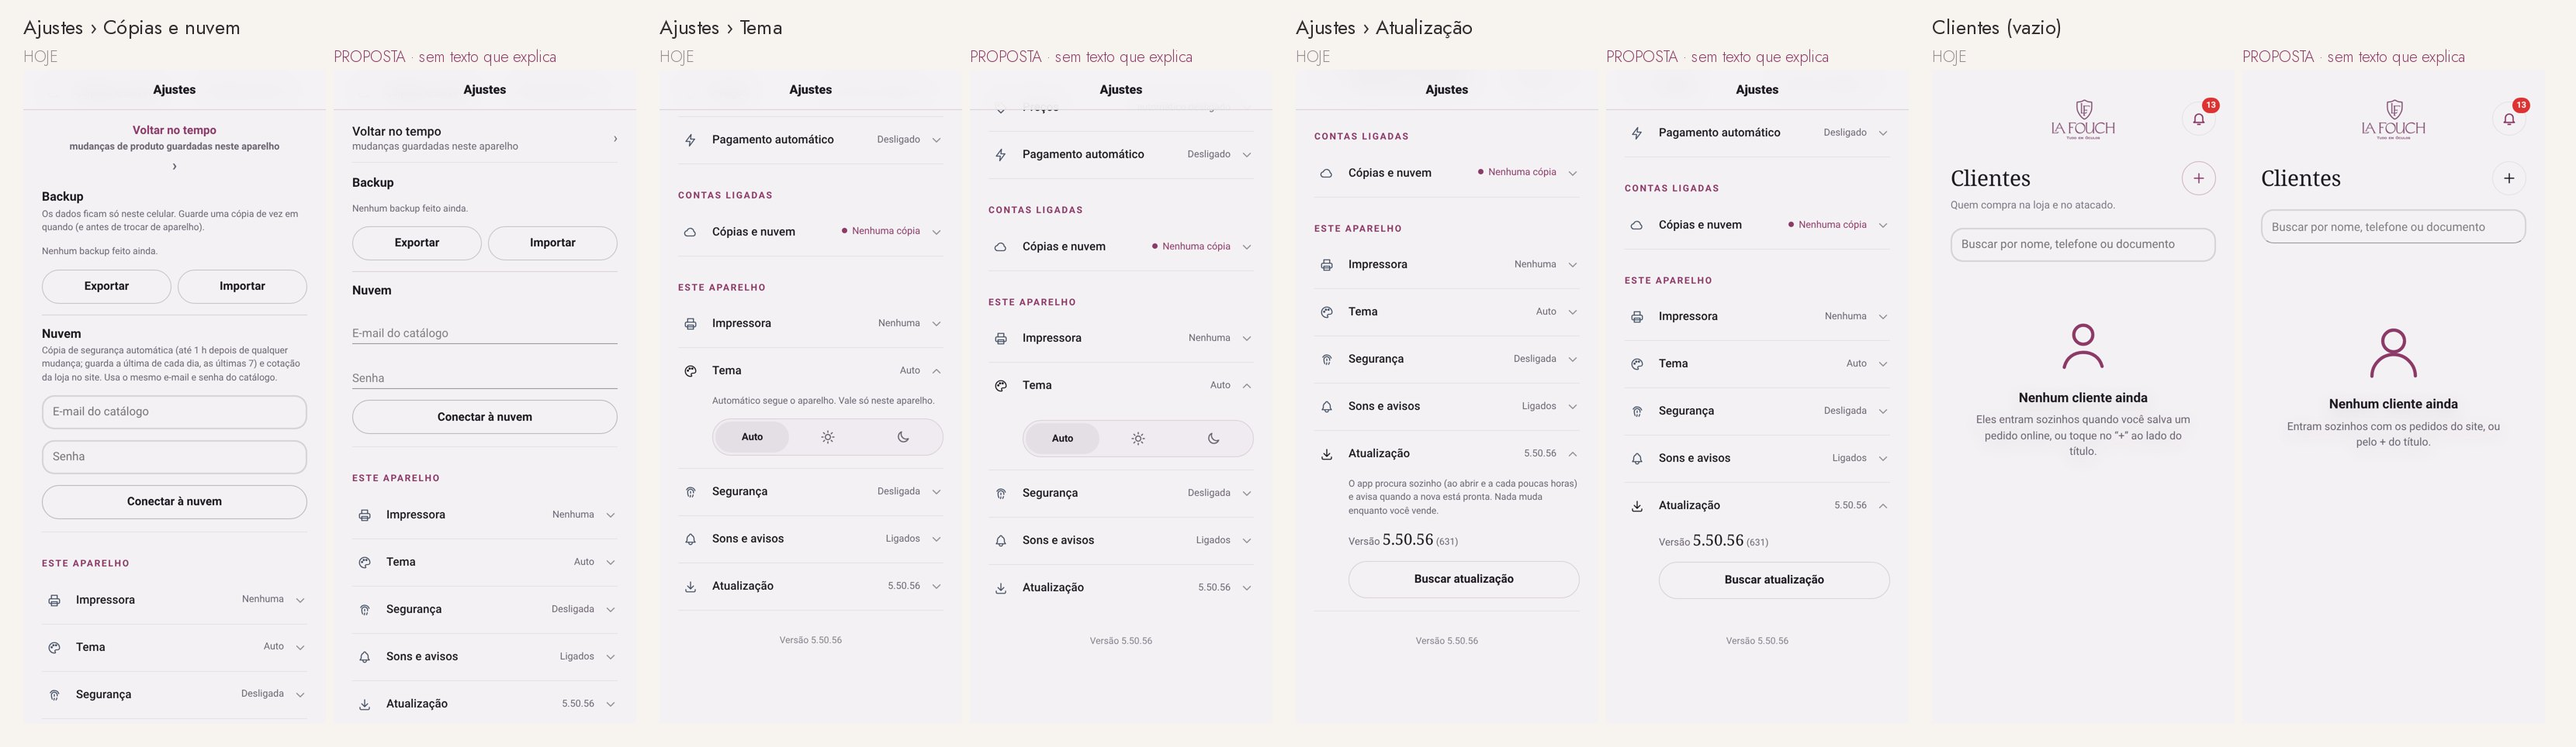
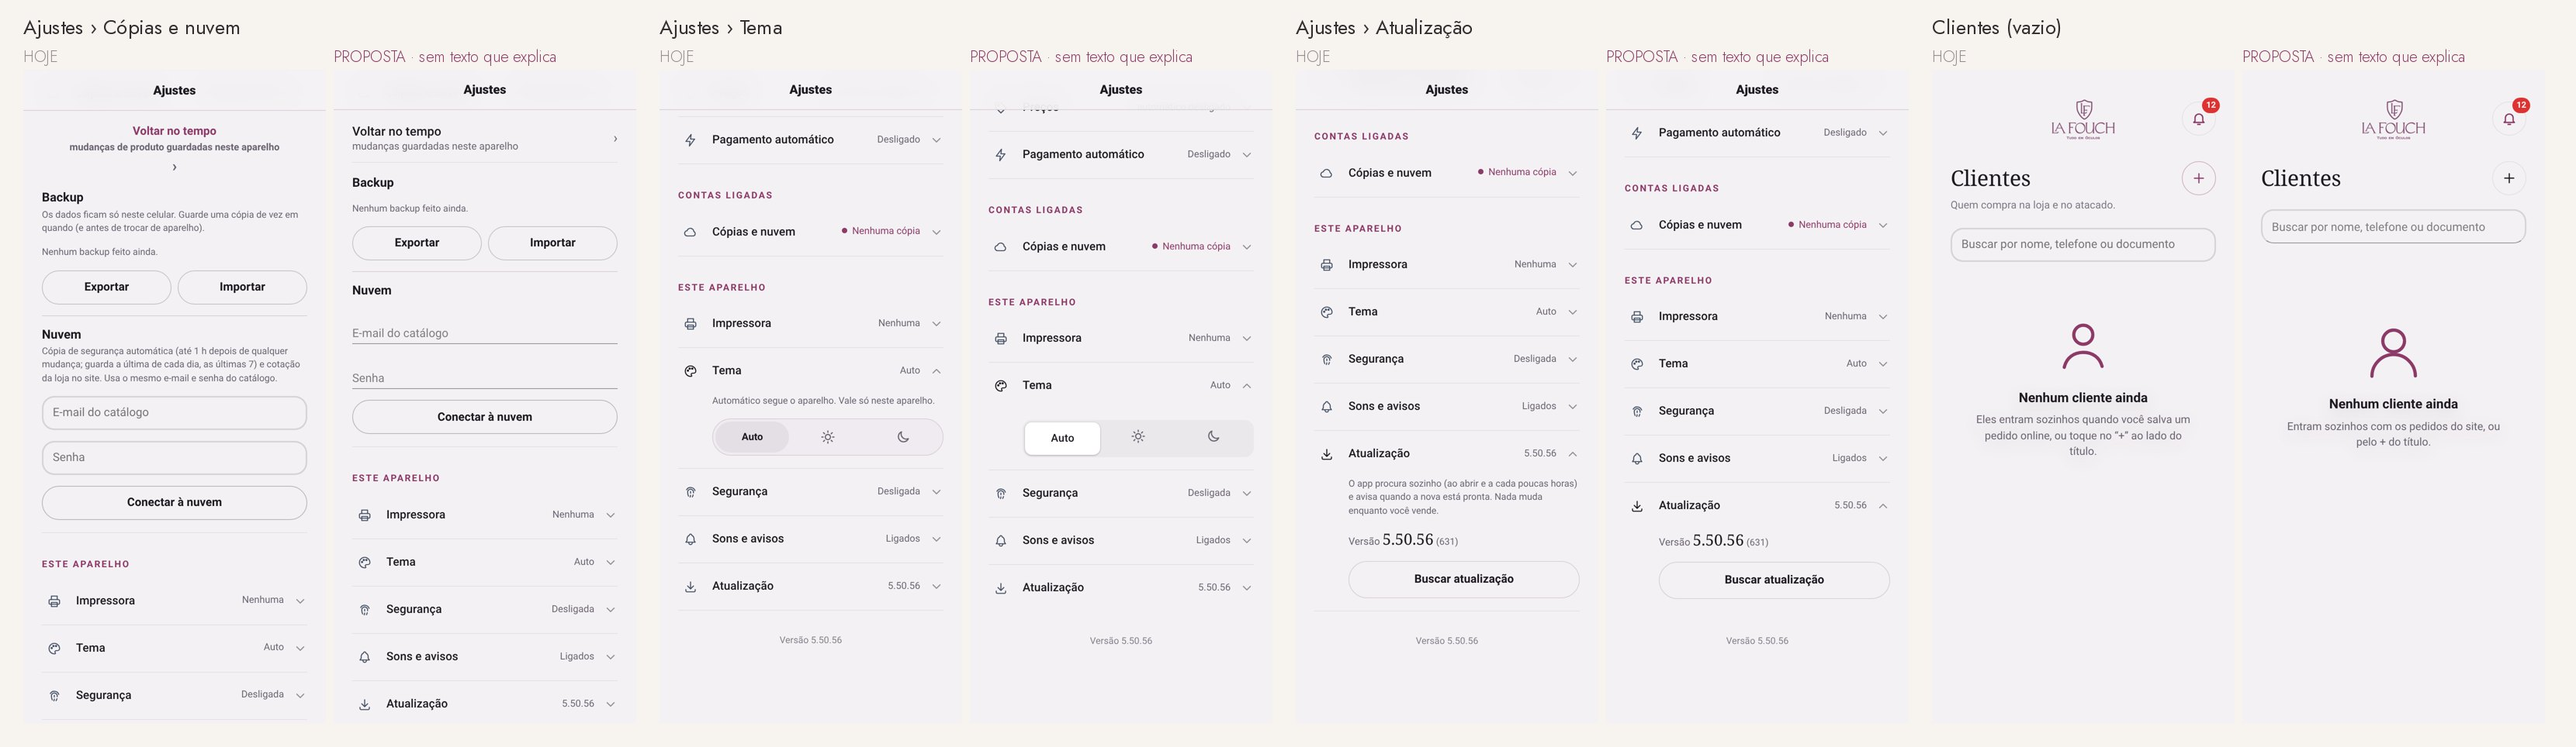
S435: 83 aprovado (v2 com o trilho)
Claude-Session: https://claude.ai/code/session_01Vj5GPRt4UBskC3w8v52h7G

diff --git a/work/s435/varredura/esboco_83.py b/work/s435/varredura/esboco_83.py
@@ -1,10 +1,12 @@
 # Esboço 83 (S435, 23/11 00:00) — VARREDURA DE LUXO · parte 2 · TEXTOS EXPLICATIVOS. Levantamento: 90 textos fixos (.hint) no app —
 # 65 EXPLICAM como funciona, 17 são de tela VAZIA, 8 são AVISO (lista: TEXTOS-EXPLICATIVOS.md). Regra proposta (a mesma do dono para
 # Marketing/Preços, 22/11 14:46 "tira essas descrições inúteis"): o que EXPLICA sai da tela; VAZIO fica no padrão lfVazioHtml; AVISO fica curto.
+# v2 (dono 00:00): a barra do Tema na proposta estava errada → a proposta inclui o aprovado 80 (todas as barras no trilho 140C).
 # Inclui o achado do 82: "Voltar no tempo ›" com a seta quebrando → vira linha de lugar (título · frase curta · › na mesma linha).
 import sys,re;sys.path.insert(0,'/home/claude/lafouch/work/s349');import ap
 from playwright.sync_api import sync_playwright
 from PIL import Image,ImageDraw,ImageFont
+_v=open('/home/claude/lafouch/work/s435/barras/esboco_80.py').read();VIRA=_v[_v.index('VIRA=r"""')+9:_v.index('"""',_v.index('VIRA=r"""')+9)]
 LINHA=open('esboco_82.py').read().split("LINHA='")[1].split("'\n")[0].replace('.in{','.in:not([placeholder^=Buscar]){').replace('.in,','.in:not([placeholder^=Buscar]),')
 EXPL=[l.split(' | ')[1] for l in open('TEXTOS-EXPLICATIVOS.md') if l.startswith('| EXPLICA')]
 TIRA=r"""L=>{const nrm=s=>s.replace(/\s+/g,' ').trim();document.querySelectorAll('.hint,.crumb,.mu').forEach(h=>{const t=nrm(h.textContent);if(L.some(x=>t.startsWith(nrm(x).slice(0,40))))h.remove()});
@@ -16,7 +18,7 @@ def cena(pw,esc,prop,k):
   b,pg,w=ap.abre(pw,v,esc,'celular',base=prop);w(900)
   if v=='ajustes': pg.locator('.ajS[data-k="%s"] .ajR'%k).click();w(900)
   if prop:
-    pg.add_style_tag(content=LINHA);pg.evaluate(TIRA,EXPL);w(200)
+    pg.add_style_tag(content=LINHA);pg.evaluate(TIRA,EXPL);w(200);pg.evaluate(VIRA,'.tmseg,.sg418,.catbar3,.adSeg,#sortChips,#fFaixas');w(300)
     if k=='bk': pg.evaluate(VNT);w(200)
     if k=='cli': pg.evaluate("()=>{const v=document.getElementById('v-clientes');const h=[...v.querySelectorAll('*')].find(e=>/^Nenhum cliente ainda/.test(e.textContent.trim())&&e.children.length<4);if(h){const ic='<circle cx=\"12\" cy=\"8\" r=\"4\"/><path d=\"M4 21c0-4.4 3.6-8 8-8s8 3.6 8 8\"/>';h.outerHTML='<div style=\"margin-top:32px\">'+window.lfVazioHtml(ic,'Nenhum cliente ainda','Entram sozinhos com os pedidos do site, ou pelo + do título.')+'</div>'}}");w(2500)
   if v=='ajustes': pg.evaluate("k=>document.querySelector('.ajS[data-k=\"'+k+'\"]').scrollIntoView({block:'start'})",k);w(400)

diff --git a/docs/FALTA-APROVAR-15-11.md b/docs/FALTA-APROVAR-15-11.md
@@ -1195,3 +1195,5 @@ Não são esquecimento (estavam na lista, parados de propósito ou por ordem do 
 - 22/11 23:40 · DONO: 81 aprovado com o ajuste — "Apagar foto" NÃO é perigo (vai para a lixeira, volta em 7 dias): sai na hora, sem janela, com o aviso curto "Foto na lixeira · Desfazer"; vermelho + Voltar só para o definitivo (esvaziar lixeira, apagar para sempre); lixeira cheia = aviso "a mais antiga sai" (81c superado; esboço do aviso vai na varredura, família Avisos). Família de botões (81): principal .go · pequeno .mini · perigo vermelho — espera o "implementar". DONO: prioridade agora = VARREDURA DE DESIGN (o que falta verificar), depois Semp e as outras ideias.
 
 - 22/11 23:49 · DONO: esboço 82 (campos em linha fina, uma regra só; busca fica) "quase perfeito" → APROVADO para os campos. Anotou para depois: (a) Ajustes › Cópias e nuvem: em "Voltar no tempo" a seta › quebra para a linha de baixo (L4) → vai na família Títulos e linhas (vira linha de lugar: título + frase + › na mesma linha); (b) as pílulas "Formato ▾ · Material ▾ · Gênero ▾" do Preencher à mão estão na pílula errada → analisar a FAMÍLIA DAS PÍLULAS ▾ depois (inclui as de Ajustes › Sons e avisos: Sino ▾, Moeda ▾…).
+
+- 23/11 00:00 · DONO: "Aprovado" → ESBOÇO 83 APROVADO (textos explicativos: dos 90 textos fixos, os 65 que explicam saem; os 17 de tela vazia ficam no padrão lfVazioHtml; os 8 avisos ficam curtos; "Voltar no tempo" vira linha de lugar). Ajuste: a barra do Tema na proposta estava errada → v2 com o aprovado 80 (trilho 140C). Lista: work/s435/varredura/TEXTOS-EXPLICATIVOS.md. Espera o "implementar".

diff --git a/docs/MEMORIA-PROJETO.md b/docs/MEMORIA-PROJETO.md
@@ -3696,3 +3696,5 @@ Testar TUDO, com muita calma, antes de dizer que está pronto ou de publicar: ca
 - 22/11 23:40 · DONO: 81 aprovado com o ajuste — "Apagar foto" NÃO é perigo (vai para a lixeira, volta em 7 dias): sai na hora, sem janela, com o aviso curto "Foto na lixeira · Desfazer"; vermelho + Voltar só para o definitivo (esvaziar lixeira, apagar para sempre); lixeira cheia = aviso "a mais antiga sai" (81c superado; esboço do aviso vai na varredura, família Avisos). Família de botões (81): principal .go · pequeno .mini · perigo vermelho — espera o "implementar". DONO: prioridade agora = VARREDURA DE DESIGN (o que falta verificar), depois Semp e as outras ideias.
 
 - 22/11 23:49 · DONO: esboço 82 (campos em linha fina, uma regra só; busca fica) "quase perfeito" → APROVADO para os campos. Anotou para depois: (a) Ajustes › Cópias e nuvem: em "Voltar no tempo" a seta › quebra para a linha de baixo (L4) → vai na família Títulos e linhas (vira linha de lugar: título + frase + › na mesma linha); (b) as pílulas "Formato ▾ · Material ▾ · Gênero ▾" do Preencher à mão estão na pílula errada → analisar a FAMÍLIA DAS PÍLULAS ▾ depois (inclui as de Ajustes › Sons e avisos: Sino ▾, Moeda ▾…).
+
+- 23/11 00:00 · DONO: "Aprovado" → ESBOÇO 83 APROVADO (textos explicativos: dos 90 textos fixos, os 65 que explicam saem; os 17 de tela vazia ficam no padrão lfVazioHtml; os 8 avisos ficam curtos; "Voltar no tempo" vira linha de lugar). Ajuste: a barra do Tema na proposta estava errada → v2 com o aprovado 80 (trilho 140C). Lista: work/s435/varredura/TEXTOS-EXPLICATIVOS.md. Espera o "implementar".
